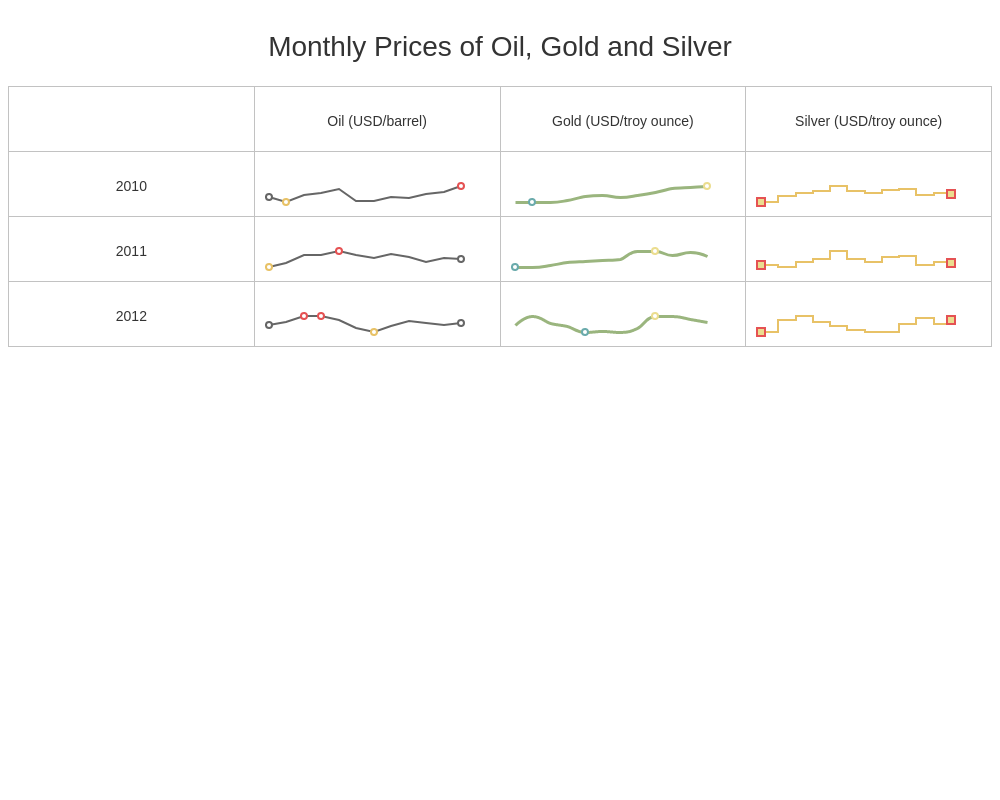
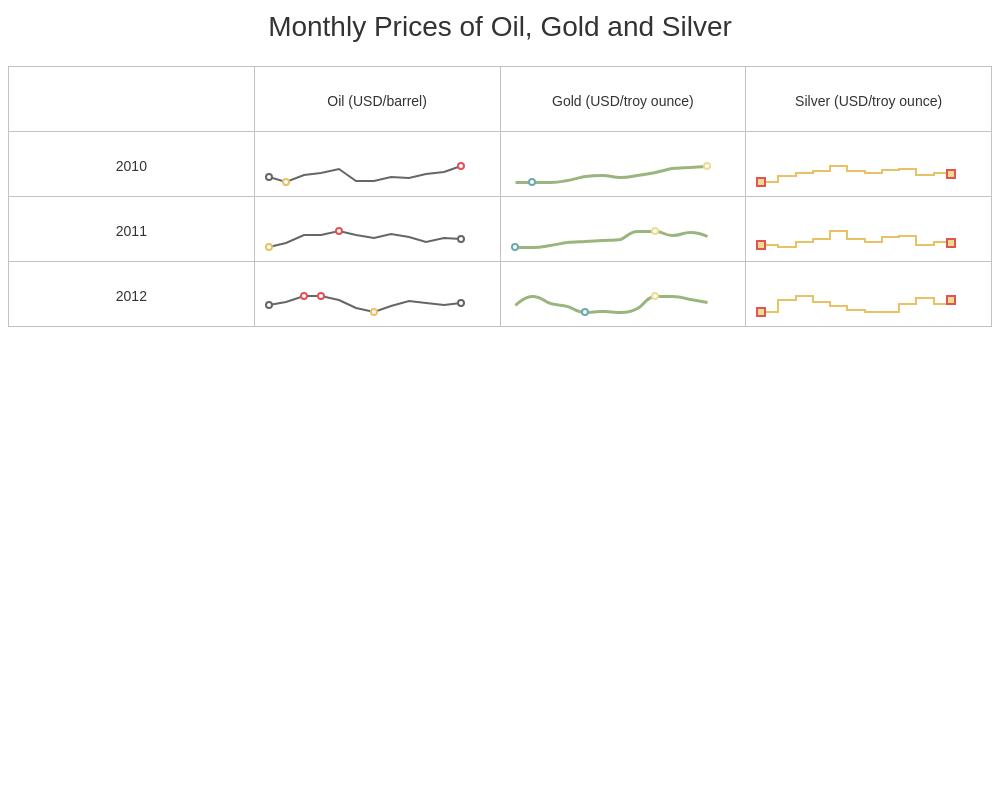
add margin-top: 0px property to charts-simplesparklnes demos

diff --git a/JSDemos/Demos/Charts/SimpleSparklines/Vue/App.vue b/JSDemos/Demos/Charts/SimpleSparklines/Vue/App.vue
@@ -60,5 +60,6 @@ export default {
     font-size: 28px;
     text-align: center;
     margin-bottom: 20px;
+    margin-top: 0px;
 }
 </style>

diff --git a/JSDemos/Demos/Charts/SimpleSparklines/Angular/app/app.component.css b/JSDemos/Demos/Charts/SimpleSparklines/Angular/app/app.component.css
@@ -34,4 +34,5 @@
     font-size: 28px;
     text-align: center;
     margin-bottom: 20px;
+    margin-top: 0px;
 }

diff --git a/JSDemos/Demos/Charts/SimpleSparklines/AngularJS/styles.css b/JSDemos/Demos/Charts/SimpleSparklines/AngularJS/styles.css
@@ -40,4 +40,5 @@
     font-size: 28px;
     text-align: center;
     margin-bottom: 20px;
+    margin-top: 0px;
 }

diff --git a/JSDemos/Demos/Charts/SimpleSparklines/Knockout/styles.css b/JSDemos/Demos/Charts/SimpleSparklines/Knockout/styles.css
@@ -40,4 +40,5 @@
     font-size: 28px;
     text-align: center;
     margin-bottom: 20px;
+    margin-top: 0px;
 }

diff --git a/JSDemos/Demos/Charts/SimpleSparklines/React/styles.css b/JSDemos/Demos/Charts/SimpleSparklines/React/styles.css
@@ -39,4 +39,5 @@
     font-size: 28px;
     text-align: center;
     margin-bottom: 20px;
+    margin-top: 0px;
 }

diff --git a/JSDemos/Demos/Charts/SimpleSparklines/jQuery/styles.css b/JSDemos/Demos/Charts/SimpleSparklines/jQuery/styles.css
@@ -40,4 +40,5 @@
     font-size: 28px;
     text-align: center;
     margin-bottom: 20px;
+    margin-top: 0px;
 }
